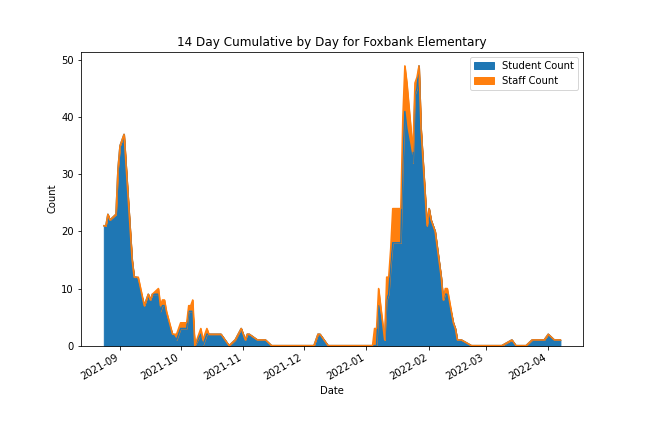
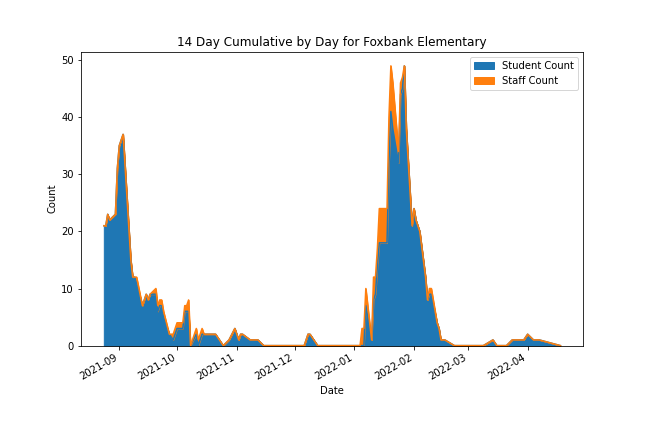
Report created by Github actions on 2022-04-19

diff --git a/output/report.md b/output/report.md
@@ -39,6 +39,10 @@ This notebook provides various processing and infographics on COVID dashboard re
 
 ###  By Student Count
 
+    Data is not available for today: 2022-04-19
+    Most recent date with data is 2022-04-18
+
+
 
 | School              | Date                |   Staff Count |   Student Count |   Staff Close Contacts |   Student Close Contacts |
 |:--------------------|:--------------------|--------------:|----------------:|-----------------------:|-------------------------:|
@@ -52,13 +56,13 @@ This notebook provides various processing and infographics on COVID dashboard re
 ### By Staff Count
 
 
-| School                 | Date                |   Staff Count |   Student Count |   Staff Close Contacts |   Student Close Contacts |
-|:-----------------------|:--------------------|--------------:|----------------:|-----------------------:|-------------------------:|
-| Goose Creek Elementary | 2022-04-18 00:00:00 |             0 |               0 |                      0 |                        0 |
-| Hanahan Elementary     | 2022-04-18 00:00:00 |             0 |               0 |                      0 |                        0 |
-| Hanahan High           | 2022-04-18 00:00:00 |             0 |               0 |                      0 |                        0 |
-| Hanahan Middle         | 2022-04-18 00:00:00 |             0 |               0 |                      0 |                        0 |
-| Howe Hall Aims         | 2022-04-18 00:00:00 |             0 |               0 |                      0 |                        0 |
+| School              | Date                |   Staff Count |   Student Count |   Staff Close Contacts |   Student Close Contacts |
+|:--------------------|:--------------------|--------------:|----------------:|-----------------------:|-------------------------:|
+| Philip Simmons High | 2022-04-18 00:00:00 |             0 |               0 |                      0 |                        0 |
+| Hanahan Elementary  | 2022-04-18 00:00:00 |             0 |               0 |                      0 |                        0 |
+| Hanahan High        | 2022-04-18 00:00:00 |             0 |               0 |                      0 |                        0 |
+| Hanahan Middle      | 2022-04-18 00:00:00 |             0 |               0 |                      0 |                        0 |
+| Howe Hall Aims      | 2022-04-18 00:00:00 |             0 |               0 |                      0 |                        0 |
 
 
 ## Top 5 Highest Schools All Time
@@ -351,9 +355,9 @@ Difference between 2022-04-18 and 2022-04-07. Student Count: 0. Staff Count: 0
 
 
 ### [Foxbank Elementary](graphics/37.png)
+On 2022-04-18 Student Count: 0. Staff Count: 0  
 On 2022-04-07 Student Count: 1. Staff Count: 0  
-On 2022-04-04 Student Count: 1. Staff Count: 0  
-Difference between 2022-04-07 and 2022-04-04. Student Count: 0. Staff Count: 0
+Difference between 2022-04-18 and 2022-04-07. Student Count: -1. Staff Count: 0
 
 
 
@@ -421,9 +425,9 @@ Difference between 2021-08-27 and 2021-08-26. Student Count: 1. Staff Count: 0
 
 
 ### [Jk Goudin Elementary](graphics/47.png)
+On 2022-04-18 Student Count: 0. Staff Count: 0  
 On 2022-04-07 Student Count: 0. Staff Count: 0  
-On 2022-04-04 Student Count: 0. Staff Count: 0  
-Difference between 2022-04-07 and 2022-04-04. Student Count: 0. Staff Count: 0
+Difference between 2022-04-18 and 2022-04-07. Student Count: 0. Staff Count: 0
 
 
 
@@ -692,5 +696,5 @@ On 2022-04-07 Student Count: 0. Staff Count: 0
 Difference between 2022-04-18 and 2022-04-07. Student Count: 0. Staff Count: 0
 
 
-    This file generated on 2022-04-18 23:51:46.629017 UTC
+    This file generated on 2022-04-19 23:51:33.005484 UTC
 
